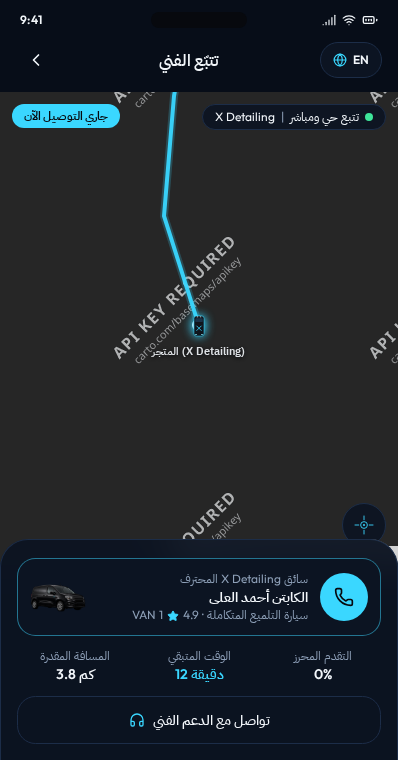
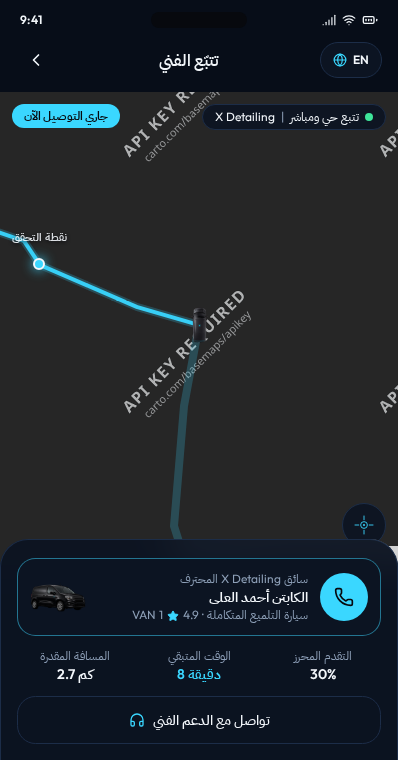
Replace van marker with realistic Expert render

diff --git a/TrackingMapVisual.tsx b/TrackingMapVisual.tsx
@@ -58,7 +58,7 @@ export function TrackingMapVisual({ van, customer, heading = 0, route = [], dela
 
 const styles = StyleSheet.create({
   fill: { flex: 1, backgroundColor: "#070D18" },
-  van: { width: 36, height: 36 },
+  van: { width: 17, height: 36 },
   customer: {
     width: 22,
     height: 22,

diff --git a/README.md b/README.md
@@ -17,17 +17,20 @@ Visual layer only. The roads, GPS, and camera stay a **native live map**. Do not
 
 | File | Place | Anchor | Display |
 |---|---|---|---|
-| `assets/tracking-van-marker.svg` | Van marker. Source of truth. | `0.5, 0.5` | 36 × 36 pt |
-| `assets/tracking-van-marker@1x.png` | Marker fallback, 64 px | `0.5, 0.5` | 36 pt |
-| `assets/tracking-van-marker@2x.png` | 128 px | `0.5, 0.5` | 36 pt |
-| `assets/tracking-van-marker@3x.png` | 192 px. Prefer this in the app. | `0.5, 0.5` | 36 pt |
+| `assets/tracking-van-marker@3x.png` | **Primary van marker.** Realistic dark Expert, cyan X, nose up. | `0.5, 0.5` | 17 × 36 pt |
+| `assets/tracking-van-marker@2x.png` | Same marker, 34 × 72 px | `0.5, 0.5` | 17 × 36 pt |
+| `assets/tracking-van-marker@1x.png` | Same marker, 17 × 36 px | `0.5, 0.5` | 17 × 36 pt |
+| `assets/tracking-van-marker.svg` | Silhouette fallback only. Do not use if the PNG loads. | `0.5, 0.5` | 17 × 36 pt |
+| `assets/tracking-van-marker-preview.png` | Inspection sheet. Not a map asset. | | |
 | `assets/tracking-customer-pin.svg` | Customer address | `0.5, 0.5` | 32 pt |
 | `assets/tracking-destination-pin.svg` | Separate route end only | `0.5, 0.5` | 28 pt |
 | `assets/tracking-live-indicator.svg` | Green dot beside the live label | center | 16 pt |
 | `assets/tracking-live-pulse.svg` | Pulse under the van, not rotated | `0.5, 0.5` | 72 pt |
 | `assets/tracking-recenter.svg` | Inside a 44 pt circle, bottom-end of the map | n/a | 24 pt glyph |
 
-The van nose points **up** at rotation `0`. Set `flat` and `rotation` to the GPS heading.
+The van nose points **up** at rotation `0`. Set `flat` and `rotation` to the GPS heading. Do not rotate the pulse under it.
+
+**Primary file:** `assets/tracking-van-marker@3x.png`. It is a tight transparent render, 51 × 108 px, shown at 17 × 36 pt. It stays readable from 32 pt to 44 pt on the long side. The SVG is a silhouette backup only.
 
 PNG files have a transparent background. SVG is the master if you redraw.
 
